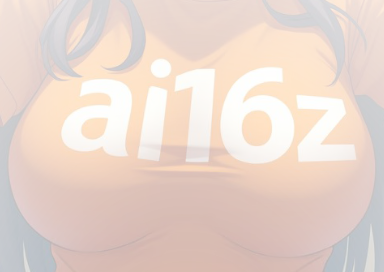
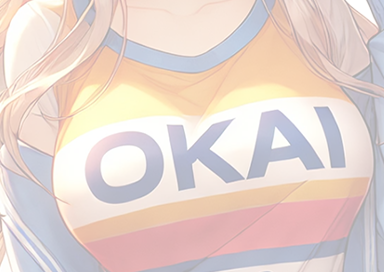
okai updt/#01

diff --git a/README.md b/README.md
@@ -1,37 +1,49 @@
-# Eliza 🤖
+# OKai 🤖
 
 <div align="center">
-  <img src="./docs/static/img/eliza_banner.jpg" alt="Eliza Banner" width="100%" />
+  <img src="./docs/static/img/okai_banner.png" alt="OKai Banner" width="100%" />
 </div>
 
 <div align="center">
-  
-  📖 [Documentation](https://ai16z.github.io/eliza/) | 🎯 [Examples](https://github.com/thejoven/awesome-eliza)
-  
+
+  📖 [Documentation](https://okcashpro.github.io/okai/) | 🎯 [Examples](https://github.com/okcashpro/awesome-okai)
+
 </div>
 
 ## 🌍 README Translations
 
 [中文说明](./README_CN.md) | [日本語の説明](./README_JA.md) | [한국어 설명](./README_KOR.md) | [Français](./README_FR.md) | [Português](./README_PTBR.md) | [Türkçe](./README_TR.md) | [Русский](./README_RU.md) | [Español](./README_ES.md) | [Italiano](./README_IT.md)
 
+## ✨ BackStory
+
+OKai is the younger, livelier sister of Eliza, born to revolutionize how we interact with the crypto world. She’s not just another AI—she’s your savvy crypto partner, designed to make everything from trading to community engagement more fun, approachable, and impactful. Whether you're diving into $OK tokenomics, participating in DAO governance, or simply looking for a friendly chat about crypto and life, OKai is here to ensure you’re always OK. 🌟
+
+Built on the foundation of Eliza’s robust AI framework, OKai combines intelligence, personality, and charm to deliver a seamless experience across Discord, Twitter, Telegram, and beyond. With her, crypto isn’t just a market—it’s a lifestyle. 🚀
+
+
 ## ✨ Features
 
--   🛠 Full-featured Discord, Twitter and Telegram connectors
--   🔗 Support for every model (Llama, Grok, OpenAI, Anthropic, etc.)
--   👥 Multi-agent and room support
--   📚 Easily ingest and interact with your documents
--   💾 Retrievable memory and document store
--   🚀 Highly extensible - create your own actions and clients
--   ☁ Supports many models (local Llama, OpenAI, Anthropic, Groq, etc.)
--   📦 Just works!
+-   🌐 **Cross-Platform Integration**: Seamless support for Discord, Twitter, and Telegram connectors to bring OKai closer to your community.
+-   🔥 **Multi-Model Compatibility**: Built to work with industry-leading AI models (Llama, OpenAI, Anthropic, Grok, etc.).
+-   🤝 **Room and Multi-Agent Support**: Enable collaborative, multi-agent interactions for richer experiences.
+-   📚 **Crypto Intelligence**: Effortlessly ingest and analyze crypto-related documents, stats, and on-chain data.
+-   💾 **Retrievable Memory**: Keep track of user interactions and historical data for tailored responses and better user experiences.
+-   🛠 **Customizable Actions**: Fully extensible design to create unique actions and integrations that align with OKai's goals.
+-   💡 **Support for All AI Architectures**: From local models (Llama) to cloud-based systems (OpenAI, Groq, Anthropic).
+-   ⚡ **Optimized for Crypto and Trading**: Built-in tools to analyze market trends, track $OK token stats, and more!
+
+---
 
 ## 🎯 Use Cases
 
--   🤖 Chatbots
--   🕵 Autonomous Agents
--   📈 Business Process Handling
--   🎮 Video Game NPCs
--   🧠 Trading
+-   🤖 **Personal Crypto Assistant**: OKai becomes your 24/7 crypto guide for all things $OK and beyond.
+-   🛡 **Decentralized Autonomous Agents**: Support DAO governance tasks and community engagement.
+-   📊 **Real-Time Market Analysis**: Aid traders with AI-driven insights and alerts for $OK and other multichain assets.
+-   🎮 **Gaming NPCs**: Enable dynamic, personalized interactions for blockchain-based and traditional games.
+-   🧠 **OK DAO Resource**: Streamline DAO governance workflows and proposal reviews.
+-   📈 **Trading Support**: Advanced algorithms for automated trading strategies and portfolio management.
+
+---
 
 ## 🚀 Quick Start
 
@@ -46,29 +58,29 @@
 ### Use the Starter (Recommended)
 
 ```bash
-git clone https://github.com/ai16z/eliza-starter.git
+git clone https://github.com/okcashpro/okai-starter.git
 
 cp .env.example .env
 
 pnpm i && pnpm start
 ```
 
-Then read the [Documentation](https://ai16z.github.io/eliza/) to learn how to customize your Eliza.
+Then read the [Documentation](https://okcashpro.github.io/okai/) to learn how to customize your OKai.
 
-### Manually Start Eliza (Only recommended if you know what you are doing)
+### Manually Start OKai (Only recommended if you know what you are doing)
 
 ```bash
 # Clone the repository
-git clone https://github.com/ai16z/eliza.git
+git clone https://github.com/okcashpro/okai.git
 
 # Checkout the latest release
 # This project iterates fast, so we recommend checking out the latest release
 git checkout $(git describe --tags --abbrev=0)
 ```
 
-### Start Eliza with Gitpod
+### Start OKai with Gitpod
 
-[![Open in Gitpod](https://gitpod.io/button/open-in-gitpod.svg)](https://gitpod.io/#https://github.com/ai16z/eliza/tree/main)
+[![Open in Gitpod](https://gitpod.io/button/open-in-gitpod.svg)](https://gitpod.io/#https://github.com/okcashpro/okai/tree/main)
 
 ### Edit the .env file
 
@@ -80,7 +92,7 @@ cp .env.example .env
 
 Note: .env is optional. If your planning to run multiple distinct agents, you can pass secrets through the character JSON
 
-### Automatically Start Eliza
+### Automatically Start OKai
 
 This will run everything to setup the project and start the bot with the default character.
 
@@ -98,7 +110,7 @@ sh scripts/start.sh
 3. Connect with X (Twitter)
     - change `"clients": []` to `"clients": ["twitter"]` in the character file to connect with X
 
-### Manually Start Eliza
+### Manually Start OKai
 
 ```bash
 pnpm i
@@ -119,15 +131,15 @@ pnpm install --include=optional sharp
 
 ### Community & contact
 
--   [GitHub Issues](https://github.com/ai16z/eliza/issues). Best for: bugs you encounter using Eliza, and feature proposals.
--   [Discord](https://discord.gg/ai16z). Best for: sharing your applications and hanging out with the community.
+-   [GitHub Issues](https://github.com/okcashpro/okai/issues). Best for: bugs you encounter using OKai, and feature proposals.
+-   [Discord](https://discord.gg/grvpc8c). Best for: sharing your applications and hanging out with the community.
 
 ## Contributors
 
-<a href="https://github.com/ai16z/eliza/graphs/contributors">
-  <img src="https://contrib.rocks/image?repo=ai16z/eliza" />
+<a href="https://github.com/okcashpro/okai/graphs/contributors">
+  <img src="https://contrib.rocks/image?repo=okcashpro/okai" />
 </a>
 
 ## Star History
 
-[![Star History Chart](https://api.star-history.com/svg?repos=ai16z/eliza&type=Date)](https://star-history.com/#ai16z/eliza&Date)
+[![Star History Chart](https://api.star-history.com/svg?repos=okcashpro/okai&type=Date)](https://star-history.com/#okcashpro/okai&Date)

diff --git a/README_KOR.md b/README_KOR.md
@@ -1,7 +1,7 @@
-# Eliza 🤖
+# OKai 🤖
 
 <div align="center">
-  <img src="./docs/static/img/eliza_banner.jpg" alt="Eliza Banner" width="100%" />
+  <img src="./docs/static/img/okai_banner.png" alt="Eliza Banner" width="100%" />
 </div>
 
 <div align="center">
@@ -76,7 +76,7 @@ cp .env.example .env
 
 참고: .env는 선택 사항입니다. 여러 개의 에이전트를 실행하려는 경우, 캐릭터 JSON 파일을 통해 비밀 변수를 전달할 수 있습니다.
 
-### Eliza 자동 시작
+### OKai 자동 시작
 
 아래 명령은 프로젝트를 설정하고 기본 캐릭터와 함께 봇을 시작합니다.
 ```bash
@@ -93,7 +93,7 @@ sh scripts/start.sh
 3. X (Twitter) 연결:
     - 캐릭터 파일에서 `"clients": []`를 `"clients": ["twitter"]`로 변경합니다.
 
-### Eliza 수동 시작
+### OKai 수동 시작
 
 ```bash
 pnpm i

diff --git a/README_TR.md b/README_TR.md
@@ -1,13 +1,13 @@
-# Eliza 🤖
+# OKai 🤖
 
 <div align="center">
-  <img src="./docs/static/img/eliza_banner.jpg" alt="Eliza Banner" width="100%" />
+  <img src="./docs/static/img/okai_banner.png" alt="Eliza Banner" width="100%" />
 </div>
 
 <div align="center">
-  
+
   📖 [Dokümantasyon](https://ai16z.github.io/eliza/) | 🎯 [Örnekler](https://github.com/thejoven/awesome-eliza)
-  
+
 </div>
 
 ## ✨ Özellikler
@@ -55,7 +55,7 @@ cp .env.example .env
     - `pnpm start --characters="path/to/your/character.json"` komutunu kullanın
     - Birden fazla karakter dosyası aynı anda yüklenebilir
 
-### Eliza'yı Başlatın
+### OKai'yı Başlatın
 
 .env dosyasını ve karakter dosyasını ayarladıktan sonra, botu aşağıdaki komutla başlatabilirsiniz:
 

diff --git a/docs/README.md b/docs/README.md
@@ -1,4 +1,4 @@
-# Eliza - Multi-agent simulation framework
+# OKai - Multi-agent simulation framework
 
 # https://github.com/ai16z/eliza
 
@@ -6,7 +6,7 @@
 
 # dev branch
 
-<img src="./docs/static/img/eliza_banner.jpg" alt="Eliza Banner" width="100%" />
+<img src="./docs/static/img/okai_banner.png" alt="Eliza Banner" width="100%" />
 
 _As seen powering [@DegenSpartanAI](https://x.com/degenspartanai) and [@MarcAIndreessen](https://x.com/pmairca)_
 

diff --git a/README_JA.md b/README_JA.md
@@ -1,6 +1,6 @@
-# Eliza
+# OKai
 
-<img src="./docs/static/img/eliza_banner.jpg" alt="Eliza Banner" width="100%" />
+<img src="./docs/static/img/okai_banner.png" alt="Eliza Banner" width="100%" />
 
 ## 機能
 
@@ -43,7 +43,7 @@ pnpm i
 pnpm start
 ```
 
-# Elizaのカスタマイズ
+# OKaiのカスタマイズ
 
 ### カスタムアクションの追加
 

diff --git a/docs/docs/api/_media/README_JA.md b/docs/docs/api/_media/README_JA.md
@@ -1,6 +1,6 @@
-# Eliza
+# OKai
 
-<img src="./docs/static/img/eliza_banner.jpg" alt="Eliza Banner" width="100%" />
+<img src="./docs/static/img/okai_banner.png" alt="Eliza Banner" width="100%" />
 
 ## 機能
 
@@ -43,7 +43,7 @@ pnpm i
 pnpm start
 ```
 
-# Elizaのカスタマイズ
+# OKaiのカスタマイズ
 
 ### カスタムアクションの追加
 

diff --git a/docs/README_FR.md b/docs/README_FR.md
@@ -1,6 +1,6 @@
-# Eliza
+# OKai
 
-<img src="./docs/static/img/eliza_banner.jpg" alt="Eliza Banner" width="100%" />
+<img src="./docs/static/img/okai_banner.png" alt="Eliza Banner" width="100%" />
 
 _Utilisée dans [@DegenSpartanAI](https://x.com/degenspartanai) et [@MarcAIndreessen](https://x.com/pmairca)_
 

diff --git a/README_IT.md b/README_IT.md
@@ -1,7 +1,7 @@
-# Eliza 🤖
+# OKai 🤖
 
 <div align="center">
-  <img src="./docs/static/img/eliza_banner.jpg" alt="Eliza Banner" width="100%" />
+  <img src="./docs/static/img/okai_banner.png" alt="Eliza Banner" width="100%" />
 </div>
 
 ## ✨ Caratteristiche

diff --git a/README_RU.md b/README_RU.md
@@ -1,7 +1,7 @@
-# Eliza 🤖
+# OKai 🤖
 
 <div align="center">
-  <img src="./docs/static/img/eliza_banner.jpg" alt="Eliza Banner" width="100%" />
+  <img src="./docs/static/img/okai_banner.png" alt="Eliza Banner" width="100%" />
 </div>
 
 <div align="center">

diff --git a/docs/docs/api/index.md b/docs/docs/api/index.md
@@ -1,6 +1,6 @@
-# Eliza
+# OKai
 
-<img src="_media/eliza_banner.jpg" alt="Eliza Banner" width="100%" />
+<img src="_media/okai_banner.png" alt="Eliza Banner" width="100%" />
 
 ### [For Chinese Version: 中文说明](_media/README_CN.md)
 

diff --git a/docs/docs/intro.md b/docs/docs/intro.md
@@ -4,7 +4,7 @@ sidebar_position: 1
 
 # Introduction to Eliza
 
-![](/img/eliza_banner.jpg)
+![](/img/okai_banner.png)
 
 _As seen powering [@DegenSpartanAI](https://x.com/degenspartanai) and [@MarcAIndreessen](https://x.com/pmairca)_
 

diff --git a/README_ES.md b/README_ES.md
@@ -1,6 +1,6 @@
-# Eliza
+# OKai
 
-<img src="./docs/static/img/eliza_banner.jpg" alt="Banner de Eliza" width="100%" />
+<img src="./docs/static/img/okai_banner.png" alt="Banner de Eliza" width="100%" />
 
 ## Funcionalidades
 
